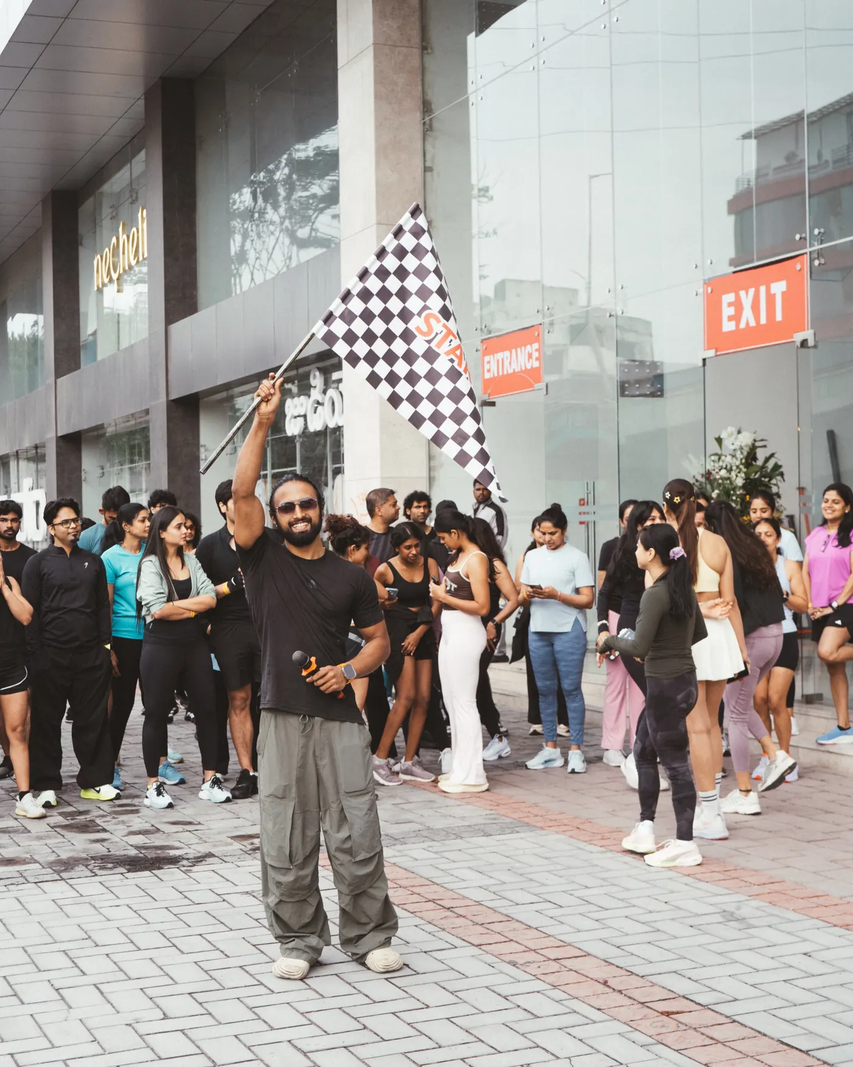
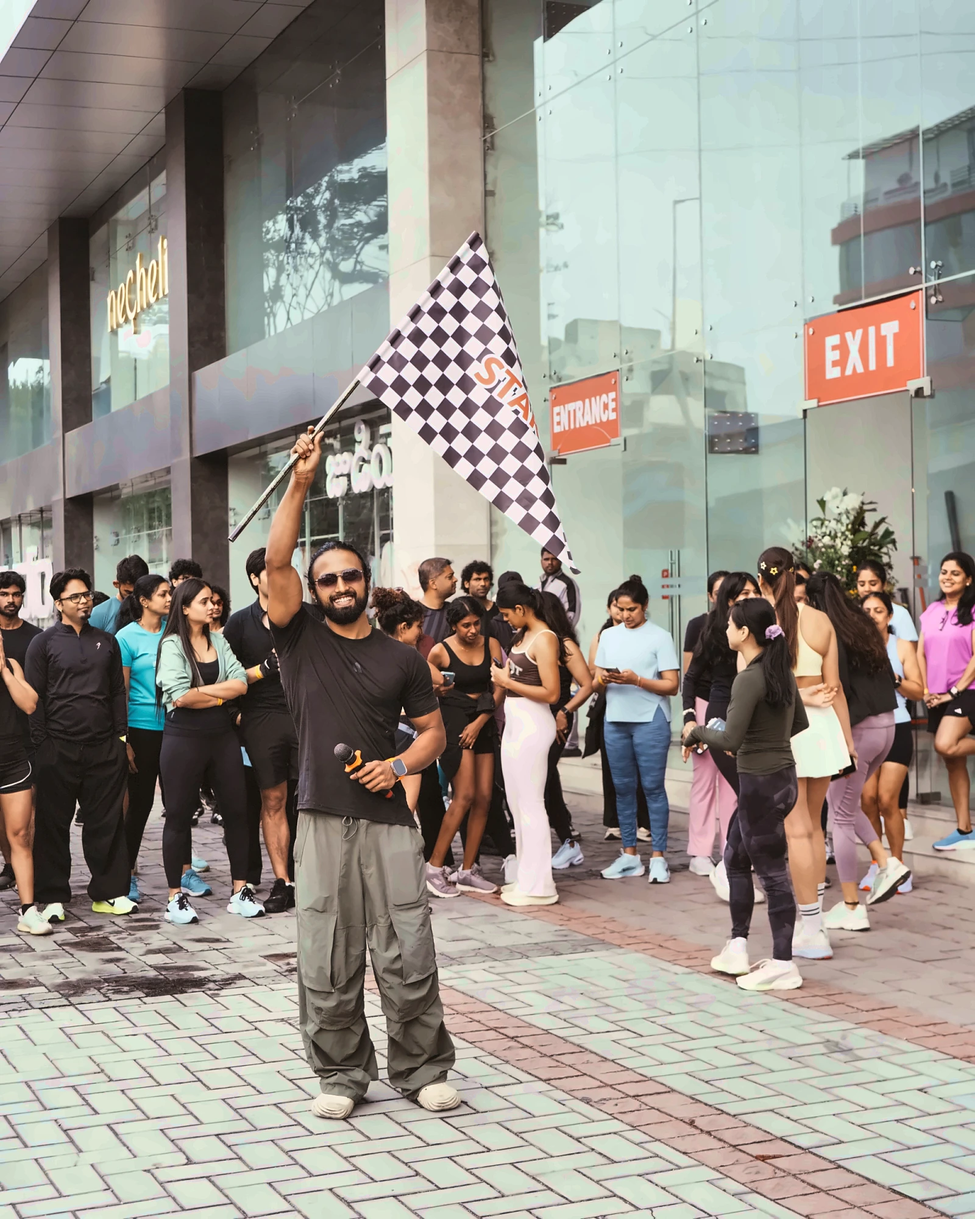
Use enhanced, higher-quality photos (denoised, upscaled, sharpened)
Claude-Session: https://claude.ai/code/session_01Pyg2ySBn3YFq4SuFvrM3xB

diff --git a/src/pages/About.tsx b/src/pages/About.tsx
@@ -12,10 +12,10 @@ const PATH = '/about';
 const FOUNDER_SLIDE_SECONDS = 3;
 const FOUNDER_PHOTOS = [
     { src: '/images/goa/aman.webp', w: 1021, h: 1400, pos: 'center', alt: 'Aman Bisht, founder and head coach of Calisthenics Lab India, on the beach' },
-    { src: '/images/founder/aman-start-flag.webp', w: 1400, h: 1750, pos: 'center 40%', alt: 'Aman Bisht flagging off a community run in Hyderabad' },
-    { src: '/images/founder/aman-stage-talk.webp', w: 1400, h: 933, pos: '46% center', alt: 'Aman Bisht speaking on stage at a calisthenics event' },
-    { src: '/images/founder/aman-judging.webp', w: 799, h: 533, pos: '51% center', alt: 'Aman Bisht judging a calisthenics competition' },
-    { src: '/images/founder/aman-namaste.webp', w: 799, h: 533, pos: '42% center', alt: 'Aman Bisht greeting the crowd at a calisthenics competition' },
+    { src: '/images/founder/aman-start-flag.webp', w: 1600, h: 2000, pos: 'center 40%', alt: 'Aman Bisht flagging off a community run in Hyderabad' },
+    { src: '/images/founder/aman-stage-talk.webp', w: 1800, h: 1200, pos: '46% center', alt: 'Aman Bisht speaking on stage at a calisthenics event' },
+    { src: '/images/founder/aman-judging.webp', w: 1598, h: 1066, pos: '51% center', alt: 'Aman Bisht judging a calisthenics competition' },
+    { src: '/images/founder/aman-namaste.webp', w: 1598, h: 1066, pos: '42% center', alt: 'Aman Bisht greeting the crowd at a calisthenics competition' },
 ];
 
 export default function About() {

diff --git a/src/pages/KidsCalisthenics.tsx b/src/pages/KidsCalisthenics.tsx
@@ -37,8 +37,8 @@ export default function KidsCalisthenics() {
                         <img
                             src="/images/tmt-handstand-coaching.webp"
                             alt="Coach Aman spotting a handstand while two kids watch at The Mighty Tribe"
-                            width="1000"
-                            height="1500"
+                            width="1400"
+                            height="2100"
                             loading="lazy"
                             className="w-full h-auto"
                         />
